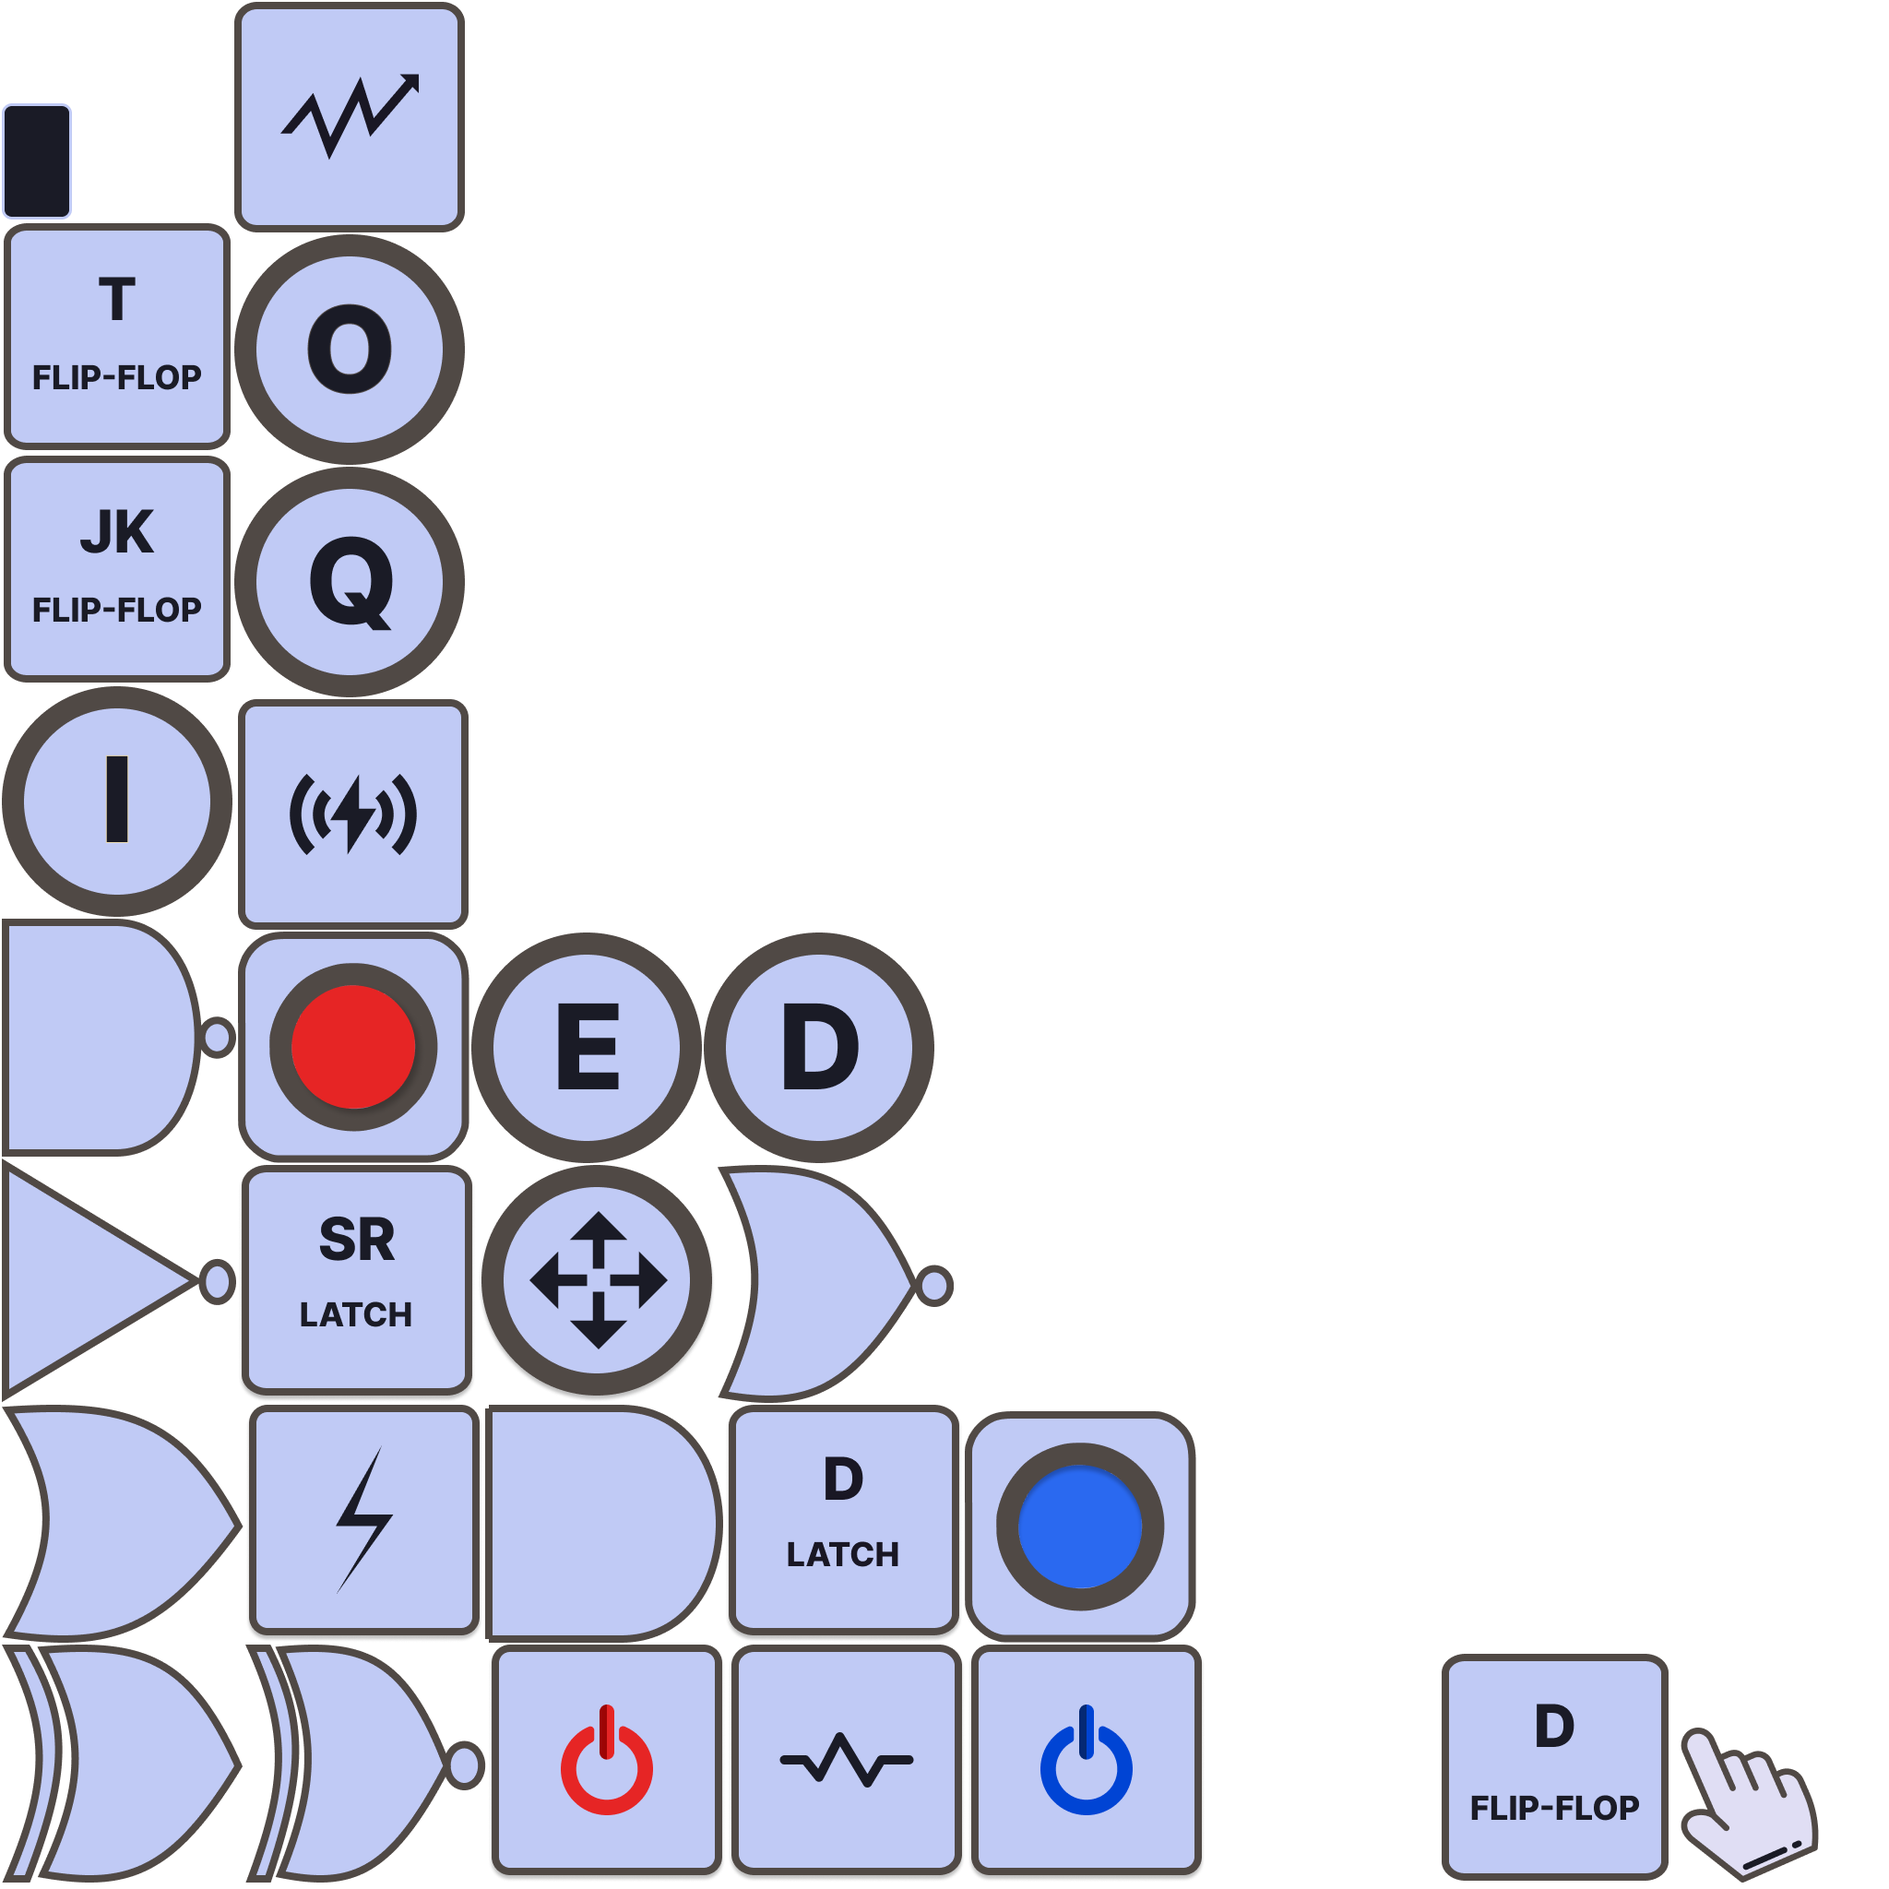
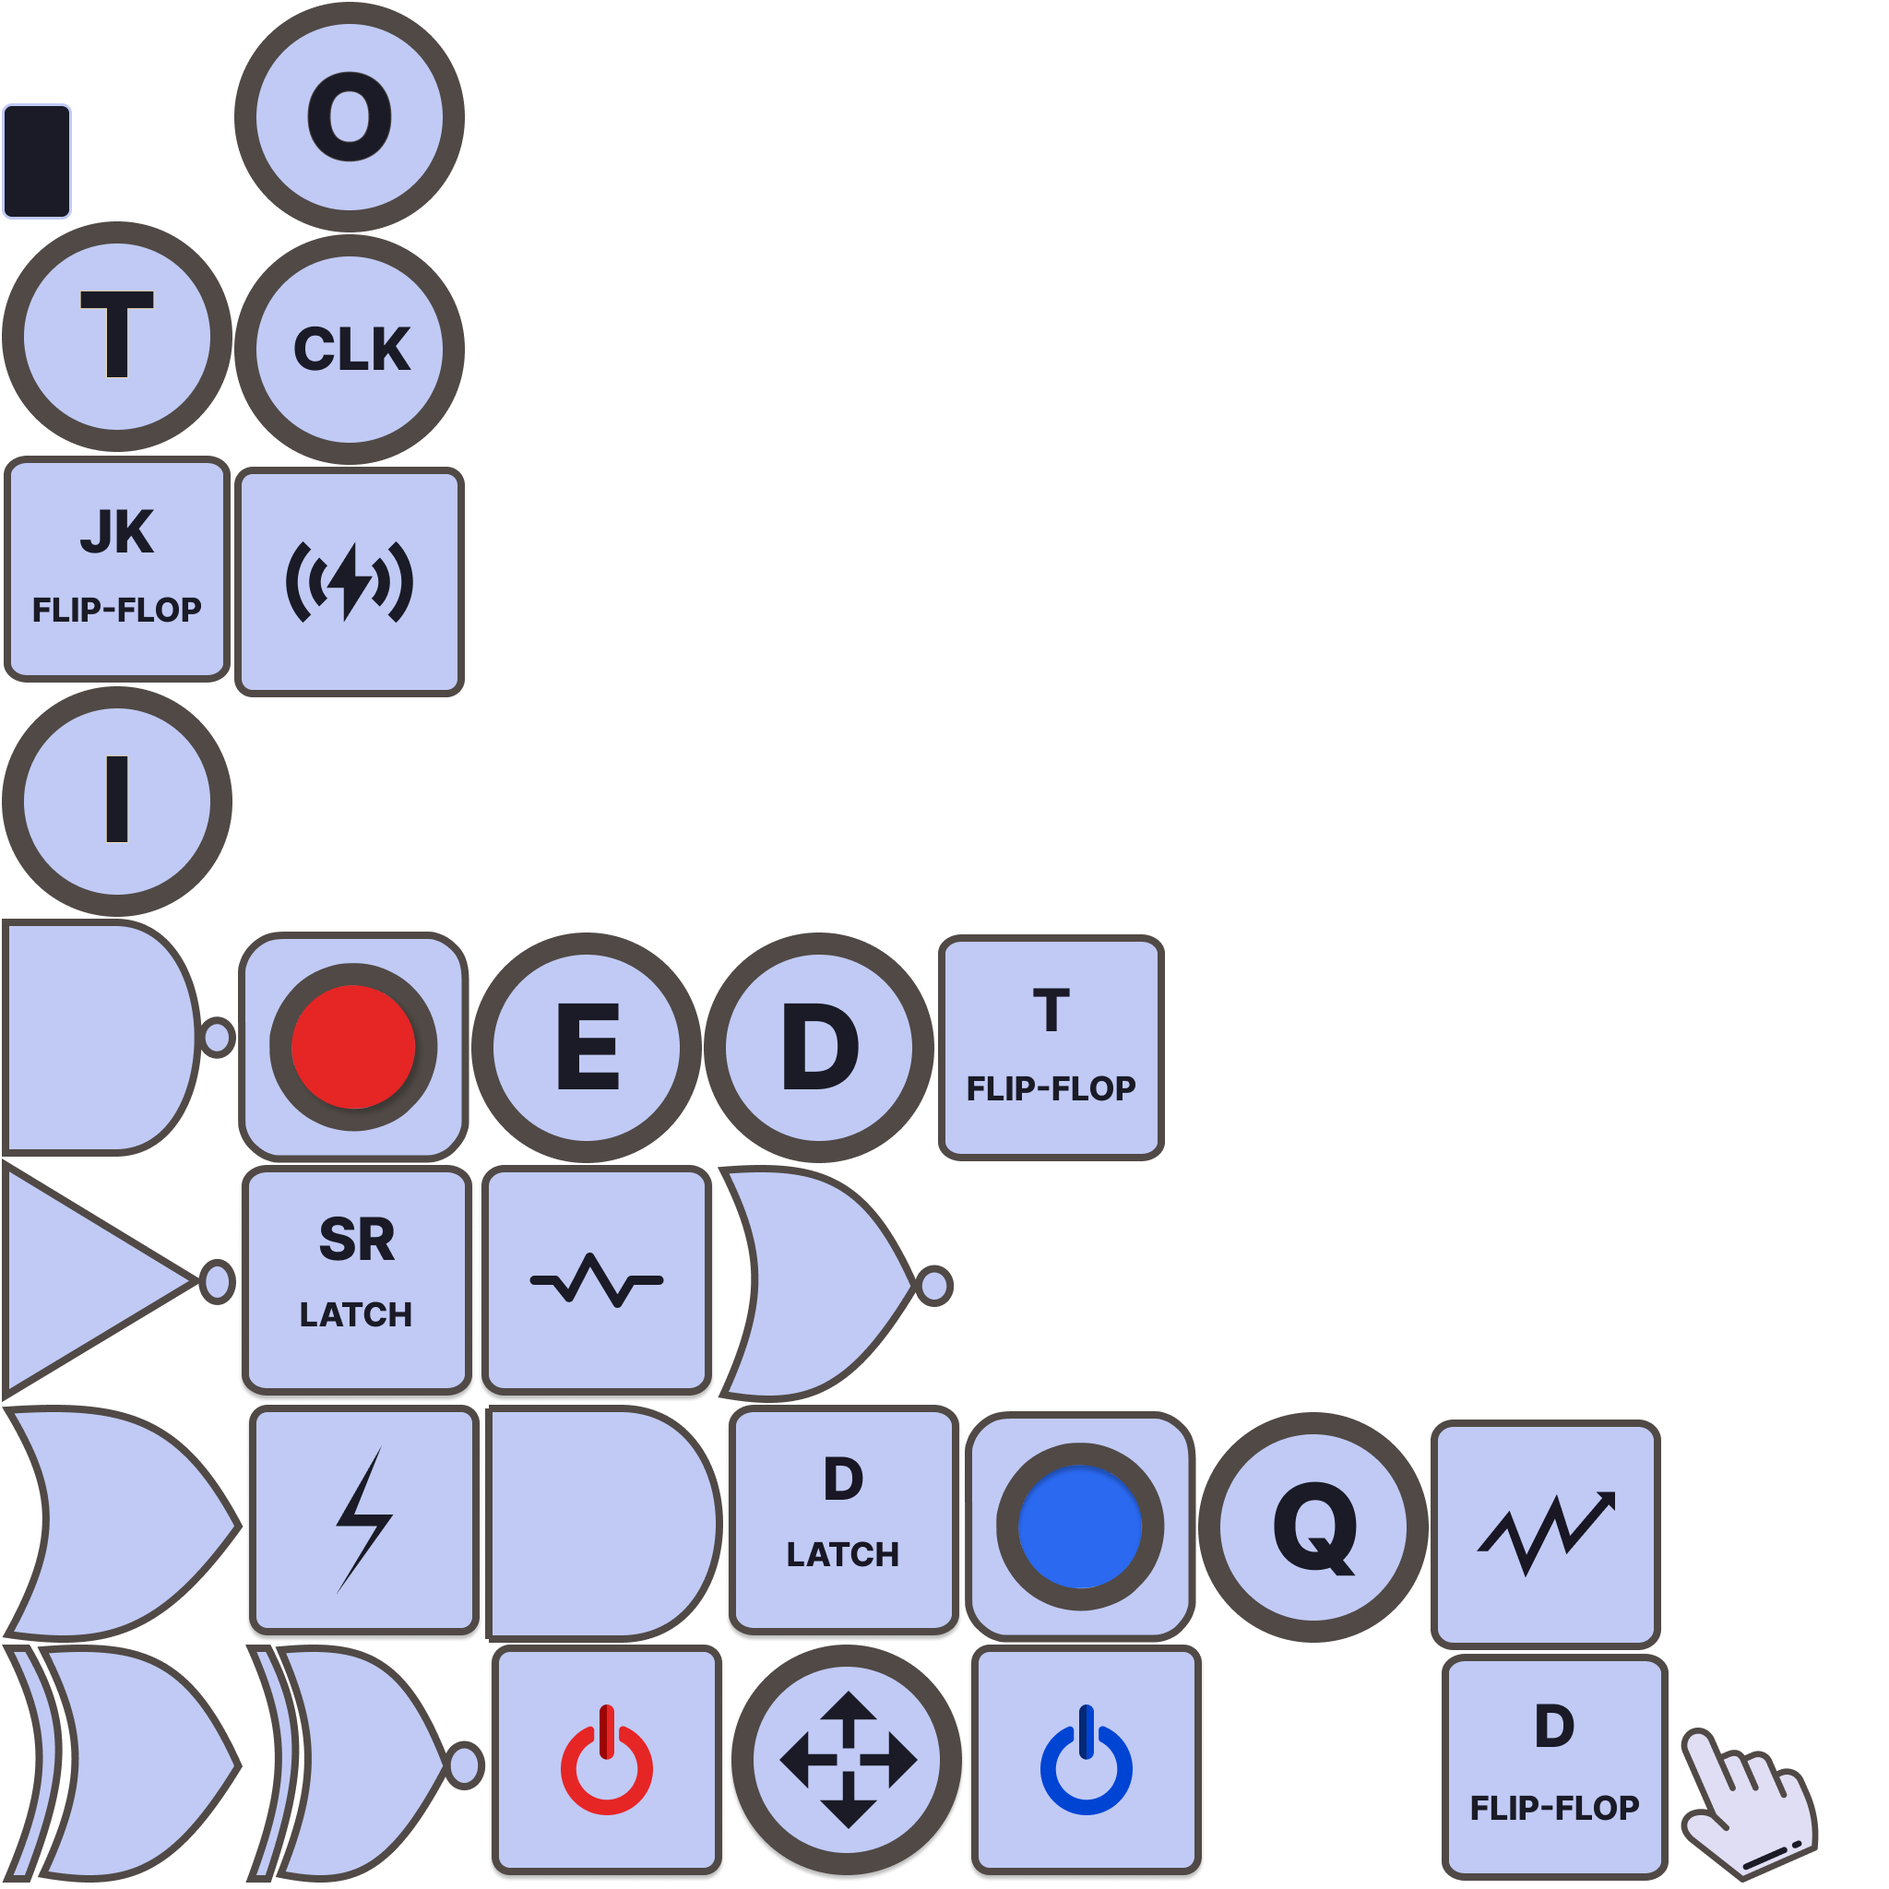
added T-filpflop, improved wire connections

diff --git a/android/src/main/java/org/engine/simulogic/android/circuits/components/lines/LineMarker.kt b/android/src/main/java/org/engine/simulogic/android/circuits/components/lines/LineMarker.kt
@@ -128,6 +128,8 @@ class LineMarker(
             val startNode = pathQueue.removeFirst()
             val endNode = pathQueue.removeLast()
             var signalIndex = 0
+            val directionX = sign(startNode.x - endNode.x)
+            val directionY = sign(startNode.y - endNode.y)
             signals.add(
                 CSignal(
                     startNode.x,
@@ -143,7 +145,7 @@ class LineMarker(
             while (countPoint > 0) {
                 if (pathQueue.size == 1) {
                     val node = pathQueue[0]
-                    signals.add(
+                     signals.add(
                         CSignal(
                             node.x,
                             node.y,
@@ -153,14 +155,15 @@ class LineMarker(
                         ).apply {
                             parent = this@LineMarker
                         })
-
                 } else {
                     val node = pathQueue.removeFirst()
+                    val x =  node.x
+                    val y =  node.y
 
                     signals.add(
                         CSignal(
-                            node.x,
-                            node.y,
+                            x,
+                            y,
                             CTypes.SIGNAL_RANGE_POINT,
                             signalIndex,
                             scene
@@ -174,8 +177,8 @@ class LineMarker(
 
             signals.add(
                 CSignal(
-                    endNode.x,
-                    endNode.y,
+                    endNode.x ,
+                    endNode.y ,
                     CTypes.SIGNAL_RANGE_POINT,
                     signalIndex,
                     scene
@@ -183,7 +186,29 @@ class LineMarker(
                     parent = this@LineMarker
                 })
 
+            /* enables user to access the wire nodes easily without moving the components they are connected to
+            * this is because sometimes the nodes overlaps with the components. So we make sure the nodes are not
+            * overlapping the components by moving in by a small offset just enough for the user to move the nodes independently*/
+            for(i in 1 until signals.size - 2){
+                val current = signals[i]
+                val next = signals[i + 1]
+                val prev = signals[i - 1]
+                val offsetX = 60f
+                val offsetY = 60f
+                if(current.getPosition().x == next.getPosition().x &&
+                    current.getPosition().y == next.getPosition().y &&
+                    endNode.x == current.getPosition().x && endNode.y == current.getPosition().y){
+                    val directionX = sign(prev.getPosition().x - current.getPosition().x)
+                    val directionY = sign(prev.getPosition().y - current.getPosition().y)
+                    val x = current.getPosition().x + offsetX * directionX
+                    val y = current.getPosition().y + offsetY * directionY
+                    current.updatePosition(x, y)
+                }
+            }
+
         }
+
+
         //initialize(scene)
         createMarker(scene)
     }

diff --git a/android/src/main/java/org/engine/simulogic/android/PremiumPurchaseActivity.kt b/android/src/main/java/org/engine/simulogic/android/PremiumPurchaseActivity.kt
@@ -2,9 +2,12 @@ package org.engine.simulogic.android
 
 import android.graphics.Color
 import android.os.Bundle
+import android.view.View
+import android.widget.ProgressBar
 import androidx.activity.SystemBarStyle
 import androidx.activity.enableEdgeToEdge
 import androidx.appcompat.app.AppCompatActivity
+import androidx.appcompat.widget.AppCompatImageButton
 import androidx.core.view.ViewCompat
 import androidx.core.view.WindowInsetsCompat
 import com.android.billingclient.api.AcknowledgePurchaseParams
@@ -58,6 +61,8 @@ class PremiumPurchaseActivity : AppCompatActivity() {
         ActivityHelpers.setStatusBarColor(window, ActivityHelpers.getThemeResourceID(this, com.google.android.material.R.attr.backgroundColor))
 
         val priceTextView = findViewById<MaterialTextView>(R.id.price)
+        val unlockPremiumButton = findViewById<MaterialButton>(R.id.unlockPremium)
+        val priceInfoLoaderProgress = findViewById<ProgressBar>(R.id.priceInfoLoader)
         billingClient = BillingClient.newBuilder(this)
             .setListener(purchaseUpdatedListener).enablePendingPurchases(PendingPurchasesParams.newBuilder()
                 .enableOneTimeProducts().build()).enableAutoServiceReconnection().build()
@@ -80,15 +85,19 @@ class PremiumPurchaseActivity : AppCompatActivity() {
                            premiumProductDetails.clear()
                            productDetailsResult.productDetailsList.forEach {
                                priceTextView.text = "${it.oneTimePurchaseOfferDetails?.formattedPrice}"
+                               unlockPremiumButton.text = buildString {
+                                   append("Unlock Pro - ")
+                                   append(it.oneTimePurchaseOfferDetails?.formattedPrice) }
                                premiumProductDetails.add(it)
                            }
+                           priceInfoLoaderProgress.visibility = View.INVISIBLE
                        }
                    }
                }
             }
 
         })
-        findViewById<MaterialButton>(R.id.unlockPremium).setOnClickListener {
+       unlockPremiumButton.setOnClickListener {
             premiumProductDetails.forEach {
                 purchasePremium(this,it)
             }
@@ -104,6 +113,10 @@ class PremiumPurchaseActivity : AppCompatActivity() {
 
         findViewById<MaterialTextView>(R.id.privacyPolicy).setOnClickListener {
 
+        }
+
+        findViewById<AppCompatImageButton>(R.id.closeActivity).setOnClickListener {
+            finish()
         }
        /* ViewCompat.setOnApplyWindowInsetsListener(findViewById(R.id.main)) { v, insets ->
             val systemBars = insets.getInsets(WindowInsetsCompat.Type.systemBars())

diff --git a/android/src/main/java/org/engine/simulogic/android/circuits/components/flipflops/CTFlipFlop.kt b/android/src/main/java/org/engine/simulogic/android/circuits/components/flipflops/CTFlipFlop.kt
@@ -1,7 +1,6 @@
 package org.engine.simulogic.android.circuits.components.flipflops
 import com.badlogic.gdx.graphics.g2d.Sprite
 import com.badlogic.gdx.graphics.g2d.TextureAtlas
-import com.badlogic.gdx.graphics.g2d.TextureRegion
 import com.badlogic.gdx.math.Rectangle
 import org.engine.simulogic.android.circuits.components.CDefaults
 import org.engine.simulogic.android.circuits.components.CNode
@@ -45,8 +44,8 @@ class CTFlipFlop(x:Float, y:Float, rotationDirection:Int, private val scene: Pla
         }
 
         signals.add(CSignal(x + sprite.width * 0.8125f, y ,CTypes.Q_SIGNAL_OUT,0, scene))
-        signals.add(CSignal(x - sprite.width * 0.8125f, y + CDefaults.gateHeight / 2f - CDefaults.gateHeight * 0.1875f ,CTypes.D_SIGNAL_IN, 1, scene))
-        signals.add(CSignal(x - sprite.width * 0.8125f, y - CDefaults.gateHeight / 2f +  CDefaults.gateHeight * 0.1875f ,CTypes.E_SIGNAL_IN, 2, scene))
+        signals.add(CSignal(x - sprite.width * 0.8125f, y + CDefaults.gateHeight / 2f - CDefaults.gateHeight * 0.1875f ,CTypes.T_SIGNAL_IN, 1, scene))
+        signals.add(CSignal(x - sprite.width * 0.8125f, y - CDefaults.gateHeight / 2f +  CDefaults.gateHeight * 0.1875f ,CTypes.CLK_SIGNAL_IN, 2, scene))
 
         signals.forEach {
             attachChild(it)
@@ -77,13 +76,20 @@ class CTFlipFlop(x:Float, y:Float, rotationDirection:Int, private val scene: Pla
 
     override fun execute() {
         val outputQ = signals[0]
-        val inputD = signals[1]
-        val inputE = signals[2]
-        val hasEdge = previousEdge != inputE.value
-        if(hasEdge){
-            outputQ.value = inputD.value
-            previousEdge = inputE.value
+        val inputT = signals[1]
+        val inputCLK = signals[2]
+        val hasEdge = previousEdge != inputCLK.value
+        if(hasEdge && inputCLK.value == SIGNAL_ACTIVE){
+            if(inputT.value == SIGNAL_ACTIVE && outputQ.value == SIGNAL_INACTIVE){
+                outputQ.value = SIGNAL_ACTIVE
+            }else if(inputT.value == SIGNAL_ACTIVE && outputQ.value == SIGNAL_ACTIVE){
+                outputQ.value = SIGNAL_INACTIVE
+            }
+            previousEdge = inputCLK.value
+        }else{
+            previousEdge = inputCLK.value
         }
+
     }
 
     override fun attachSelf() {

diff --git a/android/src/main/java/org/engine/simulogic/android/views/ComponentBottomSheet.kt b/android/src/main/java/org/engine/simulogic/android/views/ComponentBottomSheet.kt
@@ -70,7 +70,7 @@ class ComponentBottomSheet(private val listener: IComponentAdapterListener? = nu
         val includeEdge = false
         gatesRecyclerview.layoutManager = GridLayoutManager(this.context,spanCount)
         clockRecyclerview.layoutManager = GridLayoutManager(this.context,spanCount)
-        memoryRecyclerview.layoutManager = GridLayoutManager(this.context, 2)
+        memoryRecyclerview.layoutManager = GridLayoutManager(this.context, 3)
         generalRecyclerview.layoutManager = GridLayoutManager(this.context,spanCount)
         templateRecyclerview.layoutManager = GridLayoutManager(this.context,spanCount)
         displayRecyclerview.layoutManager = GridLayoutManager(this.context,3)
@@ -98,8 +98,8 @@ class ComponentBottomSheet(private val listener: IComponentAdapterListener? = nu
         val memoryAdapter = ComponentViewAdapter()
         memoryAdapter.insert(D_LATCH_COMPONENT, R.drawable.d_latch)
         memoryAdapter.insert(D_FLIP_FLOP_COMPONENT, R.drawable.d_flip_flop)
-       /* memoryAdapter.insert(SR_LATCH_COMPONENT, R.drawable.sr_latch)
         memoryAdapter.insert(T_FLIP_FLOP_COMPONENT, R.drawable.t_flip_flop)
+       /* memoryAdapter.insert(SR_LATCH_COMPONENT, R.drawable.sr_latch)
         memoryAdapter.insert(JK_FLIP_FLOP_COMPONENT, R.drawable.jk_flip_flop)*/
         val generalAdapter = ComponentViewAdapter()
         generalAdapter.insert(POWER_ON_COMPONENT, R.drawable.power_on)

diff --git a/android/src/main/java/org/engine/simulogic/android/circuits/logic/ConnectionManager.kt b/android/src/main/java/org/engine/simulogic/android/circuits/logic/ConnectionManager.kt
@@ -19,12 +19,16 @@ class ConnectionManager(
     init {
         validationMap[CTypes.SIGNAL_IN] = listOf(CTypes.SIGNAL_OUT, CTypes.Q_SIGNAL_OUT, CTypes.SIGNAL_RANGE_POINT)
         validationMap[CTypes.SIGNAL_OUT] =
-            listOf(CTypes.SIGNAL_IN, CTypes.D_SIGNAL_IN, CTypes.E_SIGNAL_IN)
+            listOf(CTypes.SIGNAL_IN, CTypes.D_SIGNAL_IN, CTypes.E_SIGNAL_IN, CTypes.CLK_SIGNAL_IN, CTypes.T_SIGNAL_IN)
         validationMap[CTypes.E_SIGNAL_IN] = listOf(CTypes.SIGNAL_OUT, CTypes.Q_SIGNAL_OUT)
         validationMap[CTypes.D_SIGNAL_IN] = listOf(CTypes.SIGNAL_OUT, CTypes.Q_SIGNAL_OUT)
+        validationMap[CTypes.CLK_SIGNAL_IN] = listOf(CTypes.SIGNAL_OUT, CTypes.Q_SIGNAL_OUT)
+        validationMap[CTypes.T_SIGNAL_IN] = listOf(CTypes.SIGNAL_OUT, CTypes.Q_SIGNAL_OUT)
         validationMap[CTypes.Q_SIGNAL_OUT] =
-            listOf(CTypes.SIGNAL_IN, CTypes.D_SIGNAL_IN, CTypes.E_SIGNAL_IN)
-        validationMap[CTypes.SIGNAL_RANGE_POINT] = listOf(CTypes.SIGNAL_IN, CTypes.E_SIGNAL_IN, CTypes.D_SIGNAL_IN)
+            listOf(CTypes.SIGNAL_IN, CTypes.D_SIGNAL_IN, CTypes.E_SIGNAL_IN, CTypes.T_SIGNAL_IN,
+                CTypes.CLK_SIGNAL_IN)
+        validationMap[CTypes.SIGNAL_RANGE_POINT] = listOf(CTypes.SIGNAL_IN, CTypes.E_SIGNAL_IN, CTypes.D_SIGNAL_IN,
+            CTypes.T_SIGNAL_IN, CTypes.CLK_SIGNAL_IN)
     }
 
     fun resolveConnection() {

diff --git a/android/src/main/java/org/engine/simulogic/android/circuits/components/gates/CSignal.kt b/android/src/main/java/org/engine/simulogic/android/circuits/components/gates/CSignal.kt
@@ -20,6 +20,8 @@ open class CSignal(x: Float, y: Float,  type: CTypes, val signalIndex: Int, priv
             CTypes.E_SIGNAL_IN -> textureAtlas.findRegion("E-ENABLE")
             CTypes.D_SIGNAL_IN -> textureAtlas.findRegion("D-INPUT")
             CTypes.Q_SIGNAL_OUT -> textureAtlas.findRegion("Q-OUTPUT")
+            CTypes.T_SIGNAL_IN -> textureAtlas.findRegion("T-INPUT")
+            CTypes.CLK_SIGNAL_IN ->textureAtlas.findRegion("CLK-INPUT")
             CTypes.SIGNAL_RANGE_POINT->textureAtlas.findRegion("MOVE-INPUT")
             else -> textureAtlas.findRegion("INPUT")
         }

diff --git a/android/src/main/java/org/engine/simulogic/android/circuits/components/CTypes.kt b/android/src/main/java/org/engine/simulogic/android/circuits/components/CTypes.kt
@@ -19,6 +19,8 @@ enum class CTypes {
     SIGNAL_IN,
     SIGNAL_OUT,
     D_SIGNAL_IN,
+    T_SIGNAL_IN,
+    CLK_SIGNAL_IN,
     Q_SIGNAL_OUT,
     E_SIGNAL_IN,
     SIGNAL_RANGE_POINT,
